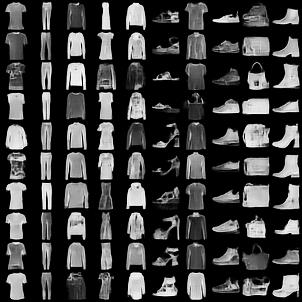
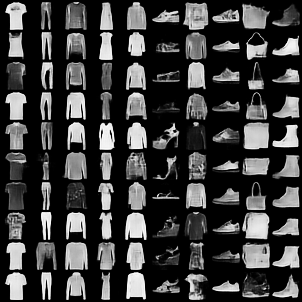
adding pixelcnn baseline on images

diff --git a/pixelcnn_baseline.py b/pixelcnn_baseline.py
@@ -1,7 +1,7 @@
 import torch
 import torch.nn as nn
 from torchvision import datasets, transforms
-from modules import AutoEncoder, GatedPixelCNN, to_scalar
+from modules import GatedPixelCNN
 import numpy as np
 from torchvision.utils import save_image
 import time
@@ -11,42 +11,31 @@ BATCH_SIZE = 32
 N_EPOCHS = 100
 PRINT_INTERVAL = 100
 ALWAYS_SAVE = True
-DATASET = 'CIFAR10'  # CIFAR10 | MNIST | FashionMNIST
+DATASET = 'FashionMNIST'  # CIFAR10 | MNIST | FashionMNIST
 NUM_WORKERS = 4
 
-LATENT_SHAPE = (8, 8) # (8, 8) -> 32x32 images, (7, 7) -> 28x28 images
+LATENT_SHAPE = (28, 28)  # (8, 8) -> 32x32 images, (7, 7) -> 28x28 images
 INPUT_DIM = 3  # 3 (RGB) | 1 (Grayscale)
-DIM = 128
-VAE_DIM = 256
+K = 256
+DIM = 64
 N_LAYERS = 15
-K = 512
 LR = 3e-4
 
 
-preproc_transform = transforms.Compose([
-    transforms.ToTensor(),
-    transforms.Normalize((0.5, 0.5, 0.5), (0.5, 0.5, 0.5))
-])
 train_loader = torch.utils.data.DataLoader(
     eval('datasets.'+DATASET)(
         '../data/{}/'.format(DATASET), train=True, download=True,
-        transform=preproc_transform,
+        transform=transforms.ToTensor(),
     ), batch_size=BATCH_SIZE, shuffle=False,
     num_workers=NUM_WORKERS, pin_memory=True
 )
 test_loader = torch.utils.data.DataLoader(
     eval('datasets.'+DATASET)(
         '../data/{}/'.format(DATASET), train=False,
-        transform=preproc_transform
+        transform=transforms.ToTensor(),
     ), batch_size=BATCH_SIZE, shuffle=False,
     num_workers=NUM_WORKERS, pin_memory=True
 )
-
-autoencoder = AutoEncoder(INPUT_DIM, VAE_DIM, K).cuda()
-autoencoder.load_state_dict(
-    torch.load('models/{}_autoencoder.pt'.format(DATASET))
-)
-autoencoder.eval()
 
 model = GatedPixelCNN(K, DIM, N_LAYERS).cuda()
 criterion = nn.CrossEntropyLoss().cuda()
@@ -57,27 +46,23 @@ def train():
     train_loss = []
     for batch_idx, (x, label) in enumerate(train_loader):
         start_time = time.time()
-        x = x.cuda()
+        x = (x[:, 0] * (K-1)).long().cuda()
         label = label.cuda()
 
-        # Get the latent codes for image x
-        latents, _ = autoencoder.encode(x)
-
-        # Train PixelCNN with latent codes
-        latents = latents.detach()
-        logits = model(latents, label)
+        # Train PixelCNN with images
+        logits = model(x, label)
         logits = logits.permute(0, 2, 3, 1).contiguous()
 
         loss = criterion(
             logits.view(-1, K),
-            latents.view(-1)
+            x.view(-1)
         )
 
         opt.zero_grad()
         loss.backward()
         opt.step()
 
-        train_loss.append(to_scalar(loss))
+        train_loss.append(loss.item())
 
         if (batch_idx + 1) % PRINT_INTERVAL == 0:
             print('\tIter: [{}/{} ({:.0f}%)]\tLoss: {} Time: {}'.format(
@@ -93,17 +78,16 @@ def test():
     val_loss = []
     with torch.no_grad():
         for batch_idx, (x, label) in enumerate(test_loader):
-            x = x.cuda()
+            x = (x[:, 0] * (K-1)).long().cuda()
             label = label.cuda()
 
-            latents, _ = autoencoder.encode(x)
-            logits = model(latents.detach(), label)
+            logits = model(x, label)
             logits = logits.permute(0, 2, 3, 1).contiguous()
             loss = criterion(
                 logits.view(-1, K),
-                latents.view(-1)
+                x.view(-1)
             )
-            val_loss.append(to_scalar(loss))
+            val_loss.append(loss.item())
 
     print('Validation Completed!\tLoss: {} Time: {}'.format(
         np.asarray(val_loss).mean(0),
@@ -116,36 +100,18 @@ def generate_samples():
     label = torch.arange(10).expand(10, 10).contiguous().view(-1)
     label = label.long().cuda()
 
-    latents = model.generate(label, shape=LATENT_SHAPE, batch_size=100)
-    x_tilde, _ = autoencoder.decode(latents)
-    images = (x_tilde.cpu().data + 1) / 2
+    x_tilde = model.generate(label, shape=LATENT_SHAPE, batch_size=100)
+    images = x_tilde.cpu().data.float() / (K - 1)
 
     save_image(
-        images,
-        'samples/samples_{}.png'.format(DATASET),
+        images[:, None],
+        'samples/pixelcnn_baseline_samples_{}.png'.format(DATASET),
         nrow=10
-    )
-
-
-def generate_reconstructions():
-    x, _ = test_loader.__iter__().next()
-    x = x[:32].cuda()
-
-    latents, _ = autoencoder.encode(x)
-    x_tilde, _ = autoencoder.decode(latents)
-    x_cat = torch.cat([x, x_tilde], 0)
-    images = (x_cat.cpu().data + 1) / 2
-
-    save_image(
-        images,
-        'samples/reconstructions_{}.png'.format(DATASET),
-        nrow=8
     )
 
 
 BEST_LOSS = 999
 LAST_SAVED = -1
-generate_reconstructions()
 for epoch in range(1, N_EPOCHS):
     print("\nEpoch {}:".format(epoch))
     train()

diff --git a/main.py b/main.py
@@ -7,17 +7,17 @@ from torchvision.utils import save_image
 import time
 
 
-BATCH_SIZE = 128
+BATCH_SIZE = 32
 N_EPOCHS = 100
 PRINT_INTERVAL = 100
-DATASET = 'FashionMNIST'  # CIFAR10 | MNIST | FashionMNIST
+DATASET = 'CIFAR10'  # CIFAR10 | MNIST | FashionMNIST
 NUM_WORKERS = 4
 
-INPUT_DIM = 1  # 3 (RGB) | 1 (Grayscale)
+INPUT_DIM = 3  # 3 (RGB) | 1 (Grayscale)
 DIM = 256
 K = 512
 LAMDA = 1
-LR = 2e-4
+LR = 3e-4
 
 
 preproc_transform = transforms.Compose([
